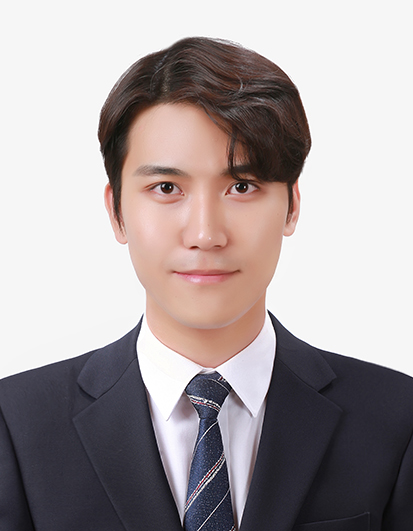
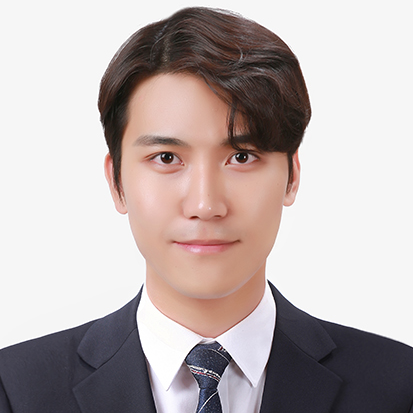
UserCard 스타일링

diff --git a/src/components/Avatar.tsx b/src/components/Avatar.tsx
@@ -1,15 +1,60 @@
 import Image from 'next/image';
 import profileImagePath from '../../public/images/jjw.png';
+import { getImageSize } from 'next/dist/server/image-optimizer';
+
+type AvatarSize = 'small' | 'medium' | 'large';
+
+type SizeStyle = {
+  container: string;
+  avatar: string;
+};
 
 type Props = {
-  size: 'small' | 'medium' | 'large';
+  size: AvatarSize;
   highlight: boolean;
 };
 
 export default function Avatar({ size = 'medium', highlight = false }: Props) {
   return (
-    <div>
-      <Image src={profileImagePath} alt="Avatar Jaewoong" />
+    <div className={getContainerStyle(size, highlight)}>
+      <Image
+        src={profileImagePath}
+        alt="Avatar Jaewoong"
+        className={`bg-white object-cover rounded-full ${
+          getSizeStyle(size).avatar
+        }`}
+      />
     </div>
   );
+}
+
+function getContainerStyle(size: AvatarSize, highlight: boolean): string {
+  // Image를 감싸는 div요소에 대한 스타일
+  const baseStyle =
+    ' relative flex justify-center items-center rounded-full aspect-square';
+  const highlightStyle = `${
+    highlight
+      ? 'bg-gradient-to-bl from-sky-300 via-sky-600 to-blue-600 p-[1.2px]'
+      : ''
+  }`;
+
+  const { container } = getSizeStyle(size);
+
+  return `${baseStyle} ${highlightStyle} ${container}`;
+}
+
+function getSizeStyle(size: AvatarSize): SizeStyle {
+  switch (size) {
+    case 'small':
+      return {
+        container: 'w-12 h-12 ',
+        avatar: 'w-[46px] h-[46px] p-[0.2px] ',
+      };
+    case 'medium':
+      return { container: 'w-16 h-16', avatar: 'w-[60px] h-[60px] p-[0.2px]' };
+    case 'large':
+      return { container: 'w-24 h-24', avatar: 'w-[90px] h-[90px] p-[0.4px]' };
+    default:
+      throw new Error(`Unsupported Size: ${size}`);
+  }
 }

diff --git a/src/components/UserCard.tsx b/src/components/UserCard.tsx
@@ -15,24 +15,27 @@ const links = [
 
 export default function UserCard() {
   return (
-    <>
-      <Avatar size="medium" highlight={false} />
+    <section className="flex items-center gap-4">
+      <Avatar size="medium" highlight={true} />
       <div>
-        <h2>
+        <h2 className="inline-block bg-sky-100 rounded-md px-1 font-bold">
           <a href="https://www.notion.so/Frontend-Engineer-d484da4e05da443da11ede6879ca21ee?pvs=4">
             @정재웅
           </a>
         </h2>
-        <p>
+        <p className="mt-2 text-xs  text-gray-400">
           저는 주변 사람들에게 도움을 주는 것에 큰 노력을 합니다. 사용자와
           기억에 남는 상호작용하는 것, 복잡한 것을 풀어내간단하게 만드는 것을
           좋아합니다. 현재 꿈을 코딩하고 있습니다.
         </p>
         <nav>
-          <ul>
+          <ul className="flex gap-2 mt-2 ">
             {links.map(({ href, title }) => {
               return (
-                <li key={title}>
+                <li
+                  key={title}
+                  className="text-xs text-blue-600 font-bold hover:brightness-150"
+                >
                   <a href={href}>{title}</a>
                 </li>
               );
@@ -40,6 +43,6 @@ export default function UserCard() {
           </ul>
         </nav>
       </div>
-    </>
+    </section>
   );
 }

diff --git a/src/app/page.tsx b/src/app/page.tsx
@@ -2,7 +2,7 @@ import UserCard from '@/components/UserCard';
 
 export default function HomePage() {
   return (
-    <section>
+    <section className="flex flex-col w-full max-w-screen-md mx-auto p-4">
       <UserCard />
     </section>
   );
